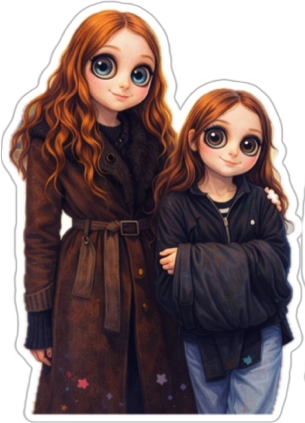
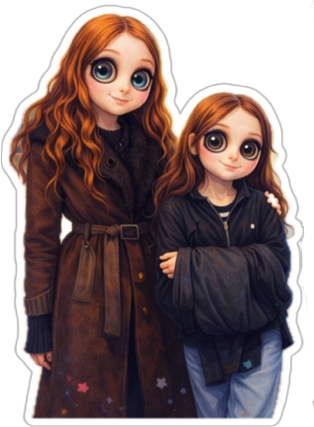
Use Boris's own crop of the two stickers instead of mine
Replaces both sticker images with the versions Boris sent back (trimmed
their transparent margins only, no other edits). Bumps the sticker
cache-busting to ?v=3 and the site-wide version to v=26.

Claude-Session: https://claude.ai/code/session_01DexqJGxvAAU36TLFFn875v

diff --git a/contact/index.html b/contact/index.html
@@ -4,7 +4,7 @@
   <meta charset="UTF-8">
   <title>Contact — HiMountain</title>
   <meta name="viewport" content="width=device-width, initial-scale=1.0">
-  <link rel="stylesheet" href="../style.css?v=25">
+  <link rel="stylesheet" href="../style.css?v=26">
 </head>
 
 <body>
@@ -15,7 +15,7 @@
     <span class="menu-toggle-label">Menu</span>
   </button>
   <span class="menu-toggle-feather" id="menuToggleFeather">
-    <img src="../assets/feather_static.png?v=25" alt="">
+    <img src="../assets/feather_static.png?v=26" alt="">
   </span>
   </div>
 
@@ -51,7 +51,7 @@
       </div>
 
       <div class="contact-sticker-toggle">
-        <img src="../assets/sticker2.png?v=2" alt="" id="stickerToggleImg">
+        <img src="../assets/sticker2.png?v=3" alt="" id="stickerToggleImg">
         <button type="button" id="stickerToggleBtn">Cheer up!</button>
       </div>
 
@@ -60,7 +60,7 @@
 </main>
 
 
-  <script src="../Main.js?v=25"></script>
+  <script src="../Main.js?v=26"></script>
 
 </body>
 </html>

diff --git a/index.html b/index.html
@@ -4,7 +4,7 @@
   <meta charset="UTF-8">
   <title>HiMountain</title>
   <meta name="viewport" content="width=device-width, initial-scale=1.0">
-  <link rel="stylesheet" href="style.css?v=25">
+  <link rel="stylesheet" href="style.css?v=26">
   <!-- Preload the gate's spritesheet while the visitor is still on the
        homepage, so it's already cached by the time they click through
        to gate.html — avoids a visible load-lag before the animation
@@ -32,8 +32,8 @@
   </div>
 
   <!-- JS scripts -->
-  <script src="frames.js?v=25"></script>
-  <script src="fitTextToContainer.js?v=25"></script>
+  <script src="frames.js?v=26"></script>
+  <script src="fitTextToContainer.js?v=26"></script>
   <script>
     // --- Create the animation container dynamically ---
     const pre = document.createElement('pre');

diff --git a/projects/project3.html b/projects/project3.html
@@ -4,7 +4,7 @@
   <meta charset="UTF-8">
   <title>Down to Earth – HiMountain</title>
   <meta name="viewport" content="width=device-width, initial-scale=1.0">
-  <link rel="stylesheet" href="../style.css?v=25">
+  <link rel="stylesheet" href="../style.css?v=26">
 
   <style>
     /* ==========================================
@@ -254,7 +254,7 @@
     <span class="menu-toggle-label">Menu</span>
   </button>
   <span class="menu-toggle-feather" id="menuToggleFeather">
-    <img src="../assets/feather_static.png?v=25" alt="">
+    <img src="../assets/feather_static.png?v=26" alt="">
   </span>
   </div>
 
@@ -454,7 +454,7 @@
     </main>
 
 
-  <script src="../Main.js?v=25"></script>
+  <script src="../Main.js?v=26"></script>
 
   <script>
     document.addEventListener("DOMContentLoaded", () => {

diff --git a/projects/project1.html b/projects/project1.html
@@ -4,7 +4,7 @@
   <meta charset="UTF-8">
   <title>The Weekend — HiMountain</title>
   <meta name="viewport" content="width=device-width, initial-scale=1.0">
-  <link rel="stylesheet" href="../style.css?v=25">
+  <link rel="stylesheet" href="../style.css?v=26">
 </head>
 
 <body>
@@ -16,7 +16,7 @@
     <span class="menu-toggle-label">Menu</span>
   </button>
   <span class="menu-toggle-feather" id="menuToggleFeather">
-    <img src="../assets/feather_static.png?v=25" alt="">
+    <img src="../assets/feather_static.png?v=26" alt="">
   </span>
   </div>
 
@@ -249,7 +249,7 @@ Stories exist only when they are being told.
 
 
   <!-- Shared script -->
-  <script src="../Main.js?v=25"></script>
+  <script src="../Main.js?v=26"></script>
 
 </body>
 </html>

diff --git a/store/index.html b/store/index.html
@@ -4,7 +4,7 @@
   <meta charset="UTF-8">
   <title>Shop — HiMountain</title>
   <meta name="viewport" content="width=device-width, initial-scale=1.0">
-  <link rel="stylesheet" href="../style.css?v=25">
+  <link rel="stylesheet" href="../style.css?v=26">
 </head>
 
 <body>
@@ -16,7 +16,7 @@
     <span class="menu-toggle-label">Menu</span>
   </button>
   <span class="menu-toggle-feather" id="menuToggleFeather">
-    <img src="../assets/feather_static.png?v=25" alt="">
+    <img src="../assets/feather_static.png?v=26" alt="">
   </span>
   </div>
 
@@ -72,7 +72,7 @@
   </div>
   </main>
 
-  <script src="../Main.js?v=25"></script>
+  <script src="../Main.js?v=26"></script>
 
   <!-- CAROUSEL SCRIPT -->
   <script>

diff --git a/projects/project4.html b/projects/project4.html
@@ -4,7 +4,7 @@
   <meta charset="UTF-8">
   <title>You Are All Daylight — HiMountain</title>
   <meta name="viewport" content="width=device-width, initial-scale=1.0">
-  <link rel="stylesheet" href="../style.css?v=25">
+  <link rel="stylesheet" href="../style.css?v=26">
 </head>
 
 <body>
@@ -15,7 +15,7 @@
     <span class="menu-toggle-label">Menu</span>
   </button>
   <span class="menu-toggle-feather" id="menuToggleFeather">
-    <img src="../assets/feather_static.png?v=25" alt="">
+    <img src="../assets/feather_static.png?v=26" alt="">
   </span>
   </div>
 
@@ -146,7 +146,7 @@
   </main>
 
 
-  <script src="../Main.js?v=25"></script>
+  <script src="../Main.js?v=26"></script>
 
 </body>
 </html>

diff --git a/projects/project2.html b/projects/project2.html
@@ -4,7 +4,7 @@
   <meta charset="UTF-8">
   <title>Being Different – HiMountain</title>
   <meta name="viewport" content="width=device-width, initial-scale=1.0">
-  <link rel="stylesheet" href="../style.css?v=25">
+  <link rel="stylesheet" href="../style.css?v=26">
 </head>
 
 <body>
@@ -16,7 +16,7 @@
     <span class="menu-toggle-label">Menu</span>
   </button>
   <span class="menu-toggle-feather" id="menuToggleFeather">
-    <img src="../assets/feather_static.png?v=25" alt="">
+    <img src="../assets/feather_static.png?v=26" alt="">
   </span>
   </div>
 
@@ -144,7 +144,7 @@
     </main>
 
 
-  <script src="../Main.js?v=25"></script>
+  <script src="../Main.js?v=26"></script>
 
 </body>
 </html>

diff --git a/projects/index.html b/projects/index.html
@@ -4,7 +4,7 @@
   <meta charset="UTF-8">
   <title>Stories — HiMountain</title>
   <meta name="viewport" content="width=device-width, initial-scale=1.0">
-  <link rel="stylesheet" href="../style.css?v=25">
+  <link rel="stylesheet" href="../style.css?v=26">
 </head>
 
 <body>
@@ -15,7 +15,7 @@
     <span class="menu-toggle-label">Menu</span>
   </button>
   <span class="menu-toggle-feather" id="menuToggleFeather">
-    <img src="../assets/feather_static.png?v=25" alt="">
+    <img src="../assets/feather_static.png?v=26" alt="">
   </span>
   </div>
 
@@ -52,7 +52,7 @@
   </main>
 
 
-  <script src="../Main.js?v=25"></script>
+  <script src="../Main.js?v=26"></script>
 
 </body>
 </html>

diff --git a/Main.js b/Main.js
@@ -148,7 +148,7 @@ if (stickerToggleImg && stickerToggleBtn) {
 
   stickerToggleBtn.addEventListener('click', () => {
     cheered = !cheered;
-    stickerToggleImg.src = cheered ? '../assets/sticker1.png?v=2' : '../assets/sticker2.png?v=2';
+    stickerToggleImg.src = cheered ? '../assets/sticker1.png?v=3' : '../assets/sticker2.png?v=3';
     stickerToggleBtn.textContent = cheered ? 'Cheer down' : 'Cheer up!';
   });
 }
